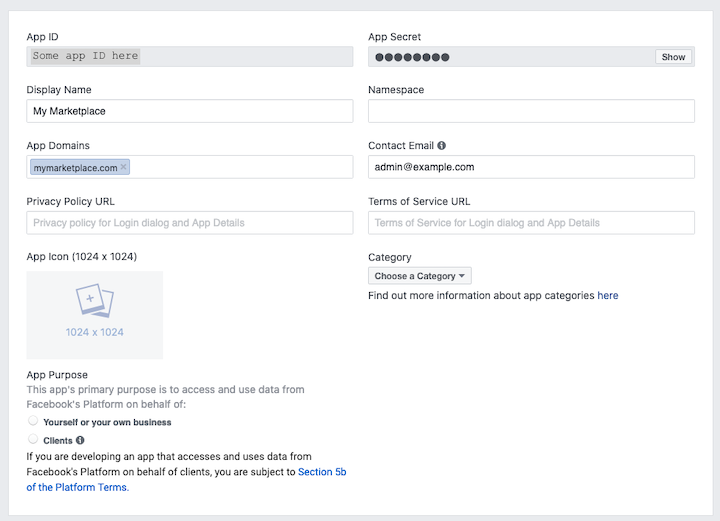
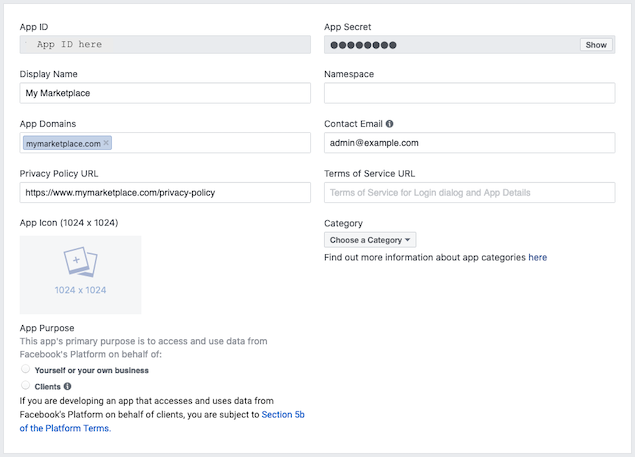
Add privacy policy to FB login cookbook

diff --git a/src/docs/cookbook-social-logins-and-sso/enable-facebook-login/index.md b/src/docs/cookbook-social-logins-and-sso/enable-facebook-login/index.md
@@ -1,7 +1,7 @@
 ---
 title: Enable Facebook login
 slug: enable-facebook-login
-updated: 2020-10-15
+updated: 2020-10-19
 category: cookbook-social-logins-and-sso
 ingress:
   In this cookbook we'll take a look at the process of setting up
@@ -10,7 +10,10 @@ ingress:
 published: true
 ---
 
-**Note, that Facebook login requires ftw-daily version [6.4.0](https://github.com/sharetribe/ftw-daily/releases/tag/v6.4.0) or ftw-hourly version [8.4.0](https://github.com/sharetribe/ftw-hourly/releases/tag/v8.4.0).**
+**Note, that Facebook login requires ftw-daily version
+[6.4.0](https://github.com/sharetribe/ftw-daily/releases/tag/v6.4.0) or
+ftw-hourly version
+[8.4.0](https://github.com/sharetribe/ftw-hourly/releases/tag/v8.4.0).**
 
 Enabling Facebook login consists of three main steps:
 
@@ -56,21 +59,27 @@ Create a Facebook app by following these steps:
     https://www.mymarketplace.com. Note that the Site URL needs to have
     the same domain that you added to App Domains, or one of them if you
     added many.
-14. Click "Save Changes" at the bottom right.
+14. You might also need to add your privacy policy URL (in some cases
+    this is not needed). If so please add it by typing the URL to your
+    privacy policy into the "Privacy Policy URL" field. In FTW the
+    policy is by default located in the `/privacy-policy` path, so the
+    URL could then be for example
+    https://www.mymarketplace.com/privacy-policy.
+15. Click "Save Changes" at the bottom right.
 
 Now your app basic setting should look like this:
 
 ![Facebook app settings](fb-app-settings.png 'Facebook app settings')
 ![Facebook Website settings](fb-website-settings.png 'Facebook Website settings')
 
-15. In the left hand menu, click "PRODUCTS +".
-16. Look up "Facebook Login" form the products list and click "Set up".
-17. Select "Web" (www) in the list of options.
-18. Verify that your "Site URL" is correct and click "Save" then
+16. In the left hand menu, click "PRODUCTS +".
+17. Look up "Facebook Login" form the products list and click "Set up".
+18. Select "Web" (www) in the list of options.
+19. Verify that your "Site URL" is correct and click "Save" then
     "Continue".
-19. You can leave the 2nd step after setting the site URL as it is and
+20. You can leave the 2nd step after setting the site URL as it is and
     in the left hand menu, click "Facebook Login" then "Settings".
-20. Under "Client OAuth Settings" check that the following settings are
+21. Under "Client OAuth Settings" check that the following settings are
     correct:
     - Client OAuth Login: Yes
     - Web OAuth Login: Yes
@@ -79,7 +88,7 @@ Now your app basic setting should look like this:
     - Enforce HTTPS: Yes
     - Embedded Browser OAuth Login: Yes
     - Login from devices: No
-21. In the "Valid OAuth redirect URIs" field add your marketplace
+22. In the "Valid OAuth redirect URIs" field add your marketplace
     address followed by `/api/auth/facebook/callback`, for example:
     https://www.mymarketplace.com/api/auth/facebook/callback. This
     endpoint can be different if you have modified the `/api` endpoints
@@ -114,7 +123,8 @@ when a user logs in.
 
 An identity provider client can be configure with the following steps:
 
-1. Go to [Social logins & SSO in Console](https://flex-console.sharetribe.com/social-logins-and-sso).
+1. Go to
+   [Social logins & SSO in Console](https://flex-console.sharetribe.com/social-logins-and-sso).
 2. Under _Identity provider clients_ click "+ Add new".
 3. Set "Client name". This can be anything you choose, for example,
    "Facebook login". In case you need to create multiple Facebook apps,

diff --git a/src/docs/flex-cli/getting-started-with-flex-cli/index.md b/src/docs/flex-cli/getting-started-with-flex-cli/index.md
@@ -146,10 +146,14 @@ Now that we know how to list processes, the next this is to
 
 ### flex-cli: command not found (on Windows)
 
-If you're seeing `flex-cli: command not found` error on Windows and you installed Flex CLI with Yarn, you need to add Yarn global bin path to the PATH environment varible.
+If you're seeing `flex-cli: command not found` error on Windows and you
+installed Flex CLI with Yarn, you need to add Yarn global bin path to
+the PATH environment varible.
 
 1. Run `yarn global bin` to see the global bin path
 2. Add it to PATH environment variable
 3. Restart command line
 
-For a step-by-step guide with screenshots, have a look at this blog post: ['yarn global add' command does not work on Windows](https://sung.codes/blog/2017/12/30/yarn-global-add-command-not-work-windows/)
+For a step-by-step guide with screenshots, have a look at this blog
+post:
+['yarn global add' command does not work on Windows](https://sung.codes/blog/2017/12/30/yarn-global-add-command-not-work-windows/)
